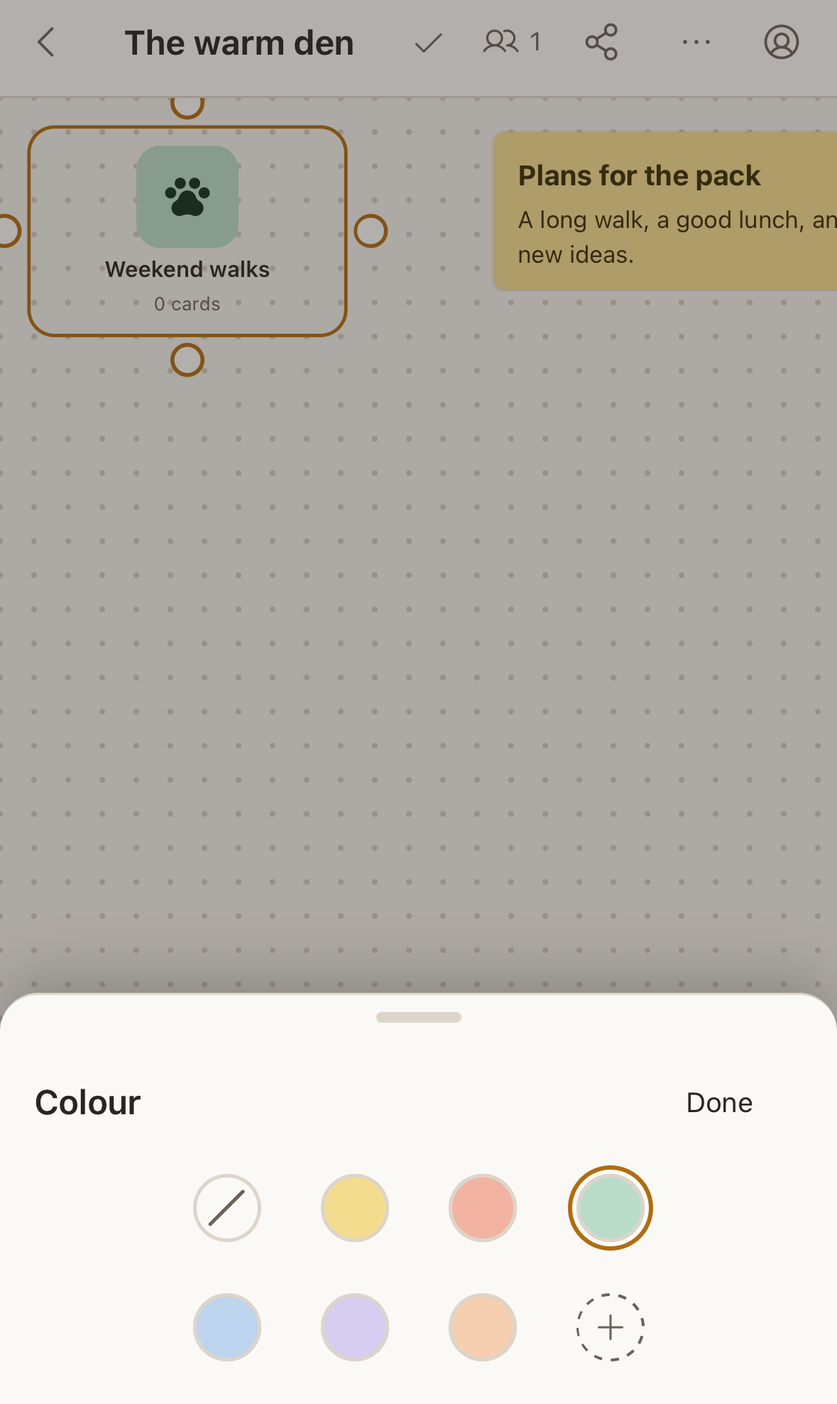
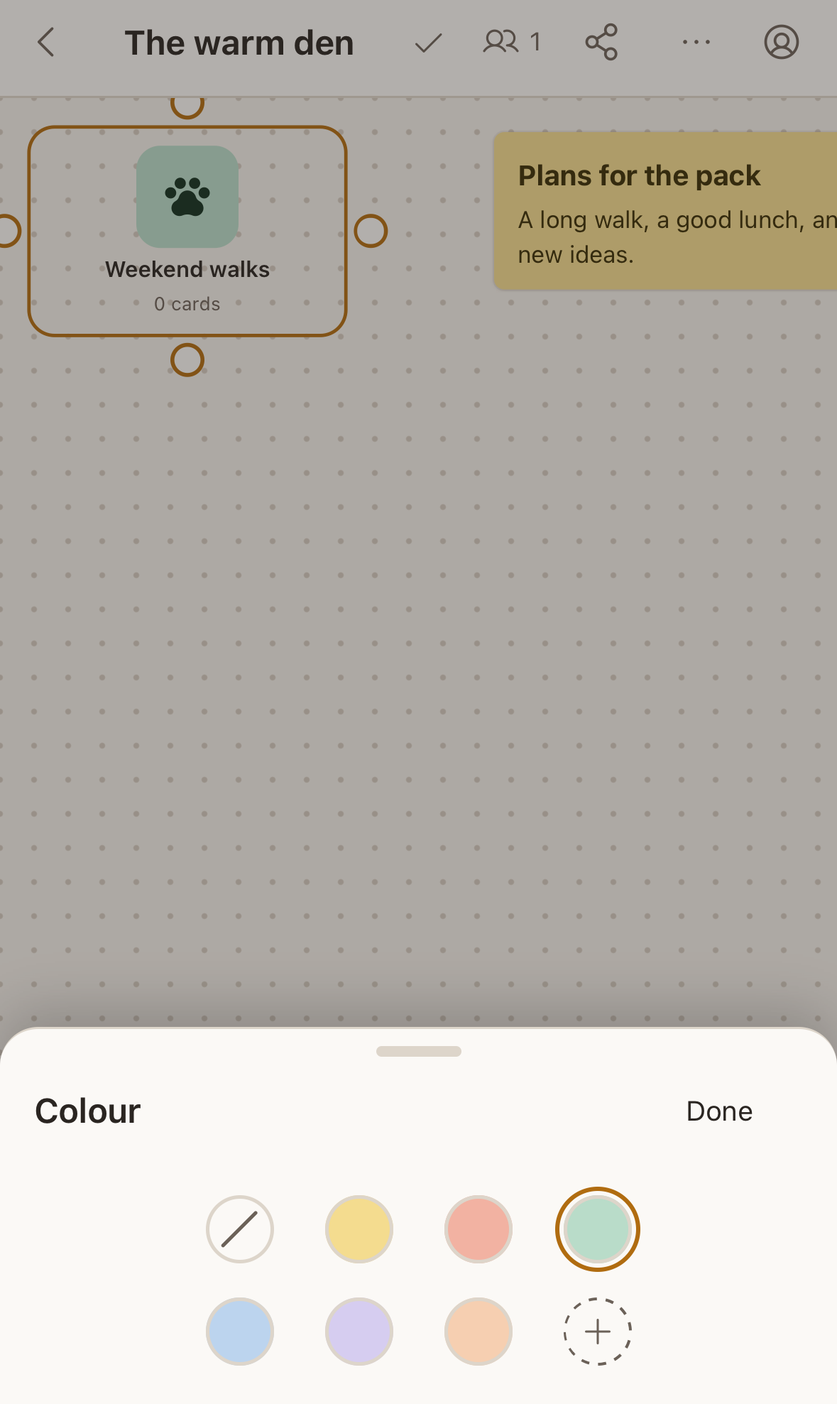
Unify phone controls and rebalance palette spacing

diff --git a/apps/web/src/ui/mobile.css b/apps/web/src/ui/mobile.css
@@ -380,37 +380,20 @@ html[data-input='touch'] :is(input:not([type='checkbox'], [type='radio'], [type=
   from { transform: translateY(40%); opacity: 0; }
 }
 
-/* The Add sheet: big friendly tiles. */
-.add-grid {
-  display: grid;
-  grid-template-columns: repeat(auto-fill, minmax(88px, 1fr));
-  gap: 8px;
-}
-.add-tile {
-  display: flex;
-  flex-direction: column;
-  align-items: center;
-  gap: 6px;
-  min-height: 84px;
-  padding: 10px 4px;
-  border: 1px solid var(--dn-border);
-  border-radius: 14px;
-  background: var(--dn-card);
-  color: var(--dn-text);
-  font: inherit;
-  font-size: 13px;
-  transition: transform 120ms ease-out;
-}
-.add-tile:active { transform: scale(0.94); background: var(--dn-card-hover); }
-.add-tile-icon {
-  display: grid;
-  place-items: center;
-  width: 40px;
-  height: 40px;
-  border-radius: 12px;
-  background: var(--dn-card-hover);
-  color: var(--dn-text-muted);
-}
+/* One button grammar and column grid for every creation action. */
+.add-grid { display: grid; grid-template-columns: repeat(3, minmax(0, 1fr)); gap: 4px 8px; }
+.add-tile { min-width: 0; min-height: 44px; justify-content: flex-start; gap: 6px; padding: 4px; border-radius: 8px; line-height: 20px; text-align: left; transition: transform 120ms ease-out; }
+.add-tile:active { transform: scale(0.97); }
+.add-tile-icon { display: grid; place-items: center; flex: 0 0 24px; width: 24px; height: 24px; color: var(--dn-text-muted); }
+.add-label { min-width: 0; overflow-wrap: anywhere; }
+.add-primary .add-tile { font-weight: 600; }
+.add-primary .add-tile-icon { color: inherit; }
+.add-sheet .add-primary-note,
+html[data-input='mouse'] .add-sheet .add-primary-note:hover,
+html[data-input='touch'] .add-sheet .add-primary-note:active:not(:disabled) { background: var(--dn-accent); color: var(--dn-accent-text); }
+.add-secondary { margin-top: 4px; }
+.add-sheet .nav-menu-head { min-height: 44px; padding: 0; margin-bottom: 12px; }
+.add-sheet .nav-menu-head strong { font-size: 16px; }
 
 /* Inbox list scrolls by touch; items are placed with their buttons. */
 html[data-input='touch'] .toybox-item { touch-action: pan-y; cursor: default; }
@@ -489,6 +472,7 @@ html[data-touch-editing] .canvas-controls { visibility: hidden; }
   .selection-bar.docked .bar-actions .bar-btn { flex: 0 0 auto; min-width: 64px; }
 }
 @media (max-width: 599px), (pointer: coarse) and (max-height: 500px) {
+  .share-head { top: -28px; margin-top: -28px; padding-top: 28px; }
   /* Keep the permission label attached to its full-width touch control. */
   .share-permission-field { flex-direction: column; align-items: stretch; gap: 4px; }
   .share-permission-field select { width: 100%; height: 44px; }
@@ -507,8 +491,6 @@ html[data-touch-editing] .mobile-dock { visibility: hidden; }
 @media (max-width: 599px), (pointer: coarse) and (max-height: 500px) {
   .trash { box-shadow: 0 -2px 0 var(--dn-border), 0 -14px 40px rgb(0 0 0 / 0.32); }
   /* V2-15: a tidy three-column Add grid; a lone last tile takes the whole row. */
-  .add-grid { grid-template-columns: repeat(3, minmax(0, 1fr)); }
-  .add-grid > .add-tile:last-child:nth-child(3n + 1) { grid-column: 1 / -1; flex-direction: row; justify-content: center; gap: 10px; min-height: 56px; }
   /* V2-14: colours centred in their row; Done lines up with the actions. */
   .selection-bar.docked .swatches { margin-inline: auto; }
   .selection-bar.docked .bar-done { align-self: flex-start; margin-top: 5px; }
@@ -697,21 +679,6 @@ html[data-input='touch'] .share-panel .bar-btn { padding-inline: 12px; border-ra
   .popover.labels-panel > .label-dots { grid-template-columns: repeat(7, minmax(0, 1fr)); justify-items: center; padding: 0 0 4px; }
 }
 
-/* Creation: familiar cards first, then a compact list of occasional tools. */
-.add-grid.add-primary { grid-template-columns: repeat(3, minmax(0, 1fr)); }
-.add-primary .add-tile { min-height: 64px; padding: 4px; border: 0; background: transparent; gap: 4px; font-weight: 600; }
-.add-primary .add-tile-icon { width: 32px; height: 32px; border-radius: 10px; background: transparent; }
-.add-primary .add-tile-icon svg { width: 20px; height: 20px; }
-.add-primary-note .add-tile-icon { background: var(--dn-accent); color: var(--dn-accent-text); }
-.add-group-label { margin: 16px 0 4px; color: var(--dn-text-muted); font-size: 12px; font-weight: 600; }
-.add-grid.add-secondary { grid-template-columns: repeat(2, minmax(0, 1fr)); gap: 4px 8px; }
-.add-secondary .add-tile { flex-direction: row; justify-content: flex-start; gap: 8px; min-height: 44px; padding: 4px 8px; border: 0; border-radius: 8px; background: transparent; }
-.add-secondary .add-tile-icon { width: 28px; height: 28px; background: transparent; }
-.add-secondary .add-tile-icon svg { width: 20px; height: 20px; }
-.add-grid.add-secondary > .add-tile:last-child { grid-column: auto; min-height: 44px; }
-.add-sheet .nav-menu-head { min-height: 44px; padding: 0; margin-bottom: 4px; }
-.add-sheet .nav-menu-head strong { font-size: 16px; }
-
 /* Phone selection keeps one row of actions. Palettes live in focused sheets. */
 .selection-phone-head { display: flex; justify-content: space-between; align-items: center; gap: 8px; color: var(--dn-text-muted); font-size: 12px; }
 .selection-phone-head .bar-btn { min-width: 64px; min-height: 44px; gap: 6px; }
@@ -719,12 +686,13 @@ html[data-input='touch'] .share-panel .bar-btn { padding-inline: 12px; border-ra
 .selection-phone-actions > .bar-btn { flex: 1 1 0; min-width: 44px; min-height: 56px; padding: 6px 2px; display: flex; flex-direction: column; justify-content: center; gap: 4px; font-size: 12px; border-radius: 10px; }
 .selection-phone-actions > .selection-primary { background: var(--dn-accent); color: var(--dn-accent-text); font-weight: 600; }
 html[data-input='touch'] .selection-phone-actions > .selection-primary:active:not(:disabled) { background: var(--dn-accent); color: var(--dn-accent-text); }
-.selection-sheet-head { display: flex; align-items: center; justify-content: space-between; min-height: 44px; margin-bottom: 4px; gap: 12px; }
+.selection-sheet-head { display: flex; align-items: center; justify-content: space-between; min-height: 44px; margin-bottom: 12px; gap: 12px; }
 .selection-sheet-head strong { font-size: 16px; font-weight: 600; }
 .selection-sheet-head .bar-btn { min-width: 64px; min-height: 44px; }
-.selection-style-sheet .swatches, .selection-style-sheet .icon-picker { display: grid; width: min(228px, 100%); margin-inline: auto; grid-template-columns: repeat(4, minmax(44px, 1fr)); gap: 8px 12px; justify-items: center; padding: 0; }
-.selection-style-sheet .swatch { width: 48px; height: 48px; --dot: 32px; }
-.selection-style-sheet .icon-choice { width: 48px; height: 48px; }
+.selection-style-sheet .swatches, .selection-style-sheet .icon-picker { display: grid; width: min(212px, 100%); margin-inline: auto; grid-template-columns: repeat(4, minmax(44px, 1fr)); gap: 4px 12px; justify-items: center; padding: 0; }
+.selection-style-sheet .swatch { width: 44px; height: 44px; --dot: 32px; }
+.selection-style-sheet .icon-choice { width: 44px; height: 44px; }
+.selection-style-sheet .icon-choice.on { outline: 2px solid var(--dn-selection); outline-offset: -2px; }
 .selection-style-sheet .icon-choice > svg { width: 24px; height: 24px; }
 .selection-sheet-align { display: flex; justify-content: space-between; gap: 4px; padding: 4px 0; }
 .selection-sheet-align .bar-icon { min-width: 44px; min-height: 44px; }
@@ -765,4 +733,11 @@ html[data-input='touch'] .selection-phone-actions > .selection-primary:active:no
     margin-top: -28px;
     padding-top: 28px;
   }
+}
+
+/* Compact sheets keep the 28px grip target centred, away from header controls.
+   Its last 12px share the noninteractive space above the heading's text. */
+@media (max-width: 599px), (pointer: coarse) and (max-height: 500px) {
+  :is(.menu.add-sheet, .menu.selection-style-sheet)[data-phone-sheet] { padding-top: 16px !important; }
+  :is(.add-sheet, .selection-style-sheet) > .sheet-grip { width: 96px; margin-inline: auto; top: -16px; margin-top: -16px; margin-bottom: -12px; }
 }

diff --git a/apps/web/e2e/mobile-distill.spec.ts b/apps/web/e2e/mobile-distill.spec.ts
@@ -2,24 +2,29 @@ import { expect, test } from '@playwright/test'
 import { cardByText, freshBoard, postSync, waitForSync } from './helpers.ts'
 import { Fingers, note, seedCards, selectionBarFits, tapOn } from './touch.ts'
 
-test('Add has three leading cards, one gold choice and quiet secondary tools', async ({ page }) => {
+test('Add uses one aligned compact button grid with three leading cards', async ({ page }) => {
   await freshBoard(page)
   await page.getByTestId('dock-add').tap()
   const sheet = page.getByTestId('add-sheet')
   await sheet.evaluate(el => Promise.all(el.getAnimations().map(a => a.finished.catch(() => undefined))))
   await expect(sheet.locator('.add-primary button')).toHaveText(['Note', 'To-do', 'Board'])
   await expect(sheet.locator('.add-primary-note')).toHaveCount(1)
-  const primary = await sheet.getByTestId('add-note').boundingBox()
-  const secondary = await sheet.getByTestId('add-link').boundingBox()
-  expect(primary!.height).toBeGreaterThan(secondary!.height)
-  expect(primary!.height).toBeLessThanOrEqual(68)
   await expect(sheet.getByRole('menuitem')).toHaveCount(12)
-  for (const button of await sheet.getByRole('menuitem').all()) {
-    const box = (await button.boundingBox())!
-    expect(box.height).toBeGreaterThanOrEqual(44)
-    expect(box.y + box.height).toBeLessThanOrEqual(page.viewportSize()!.height)
+  for (const width of [page.viewportSize()!.width, 320]) {
+    await page.setViewportSize({ width, height: page.viewportSize()!.height })
+    expect((await sheet.boundingBox())!.height).toBeLessThanOrEqual(290)
+    const boxes = []
+    for (const button of await sheet.getByRole('menuitem').all()) {
+      const box = (await button.boundingBox())!
+      boxes.push(box)
+      expect(box.height).toBeGreaterThanOrEqual(44)
+      expect(box.y + box.height).toBeLessThanOrEqual(page.viewportSize()!.height)
+      expect(await button.evaluate(el => el.scrollWidth <= el.clientWidth)).toBe(true)
+    }
+    for (let i = 3; i < boxes.length; i++) expect(boxes[i].x).toBeCloseTo(boxes[i % 3].x, 0)
+    expect(boxes[0].height).toBeCloseTo(boxes[3].height, 0)
+    expect(await sheet.getByTestId('add-note').evaluate(el => getComputedStyle(el).borderTopWidth)).toBe('0px')
   }
-  expect(await sheet.getByTestId('add-note').evaluate(el => getComputedStyle(el).borderTopWidth)).toBe('0px')
   await sheet.getByTestId('add-link').tap()
   await expect(page.getByTestId('link-input')).toBeFocused()
 })
@@ -34,8 +39,9 @@ test('note actions use a compact dock and Colour restores focus on dismissal', a
   await expect(bar.locator('.swatch')).toHaveCount(0)
   await page.getByTestId('selection-colour').tap()
   const palette = page.getByTestId('selection-style-sheet')
-  expect((await palette.boundingBox())!.height).toBeLessThanOrEqual(210)
-  expect((await palette.locator('.swatches').boundingBox())!.width).toBeLessThanOrEqual(240)
+  expect((await palette.boundingBox())!.height).toBeLessThanOrEqual(185)
+  expect((await palette.locator('.swatches').boundingBox())!.width).toBeLessThanOrEqual(220)
+  expect(await palette.evaluate(el => el.querySelector('.swatches')!.getBoundingClientRect().top - el.querySelector('.selection-sheet-head')!.getBoundingClientRect().bottom)).toBeCloseTo(12, 0)
   for (const swatch of await palette.locator('.swatch').all()) expect((await swatch.boundingBox())!.height).toBeGreaterThanOrEqual(44)
   await page.getByTestId('swatch-sky').tap()
   await expect(page.getByTestId('swatch-sky')).toHaveAttribute('aria-pressed', 'true')
@@ -65,7 +71,11 @@ test('a board leads with Open and uses its actual colour; Rename and icons live 
   await page.getByTestId('selection-icon').tap()
   await expect(page.getByTestId('selection-more-menu')).toHaveCount(0)
   const icons = page.getByTestId('selection-style-sheet')
-  expect((await icons.boundingBox())!.height).toBeLessThanOrEqual(210)
+  expect((await icons.boundingBox())!.height).toBeLessThanOrEqual(185)
+  const selected = icons.getByTestId('icon-paw')
+  expect(await icons.evaluate(el => el.querySelector('.icon-choice')!.getBoundingClientRect().top - el.querySelector('.selection-sheet-head')!.getBoundingClientRect().bottom)).toBeCloseTo(12, 0)
+  await expect(selected).toHaveAttribute('aria-pressed', 'true')
+  expect(await selected.evaluate(el => getComputedStyle(el).outlineWidth)).toBe('2px')
   await expect(icons.locator('.icon-choice')).toHaveCount(8)
   for (const choice of await icons.locator('.icon-choice').all()) expect((await choice.boundingBox())!.height).toBeGreaterThanOrEqual(44)
   await page.getByTestId('icon-bone').tap()

diff --git a/apps/web/src/ui/MobileDock.tsx b/apps/web/src/ui/MobileDock.tsx
@@ -83,28 +83,27 @@ function AddButton() {
           <div class="add-grid add-primary" role="group" aria-label="Create">
             <For each={PRIMARY_TOOLS}>
               {(t) => (
-                <button class="add-tile" classList={{ "add-primary-note": t.id === "note" }} role="menuitem" data-testid={`add-${t.id}`} onClick={() => add(t.id)}>
-                  <span class="add-tile-icon"><Icon size={24} name={t.icon} /></span>
-                  {t.label}
+                <button class="bar-btn add-tile" classList={{ "add-primary-note": t.id === "note" }} role="menuitem" data-testid={`add-${t.id}`} onClick={() => add(t.id)}>
+                  <span class="add-tile-icon"><Icon size={20} name={t.icon} /></span>
+                  <span class="add-label">{t.label}</span>
                 </button>
               )}
             </For>
           </div>
-          <div class="add-group-label">More</div>
           <div class="add-grid add-secondary" role="group" aria-label="More things to add">
-            <For each={MORE_TOOLS}>{(t) => <button class="add-tile" role="menuitem" data-testid={`add-${t.id}`} onClick={() => add(t.id)}><span class="add-tile-icon"><Icon size={20} name={t.icon} /></span>{t.label}</button>}</For>
-            <button class="add-tile" role="menuitem" data-testid="add-stickers" onClick={() => { setOpen(false); openStickers() }}><span class="add-tile-icon"><Icon size={24} name="sticker" /></span>Stickers</button>
-            <button class="add-tile" role="menuitem" data-testid="add-photo" onClick={() => pick(photo)}>
-              <span class="add-tile-icon"><Icon size={24} name="image" /></span>
-              Photo
+            <For each={MORE_TOOLS}>{(t) => <button class="bar-btn add-tile" role="menuitem" data-testid={`add-${t.id}`} onClick={() => add(t.id)}><span class="add-tile-icon"><Icon size={20} name={t.icon} /></span><span class="add-label">{t.label}</span></button>}</For>
+            <button class="bar-btn add-tile" role="menuitem" data-testid="add-stickers" onClick={() => { setOpen(false); openStickers() }}><span class="add-tile-icon"><Icon size={20} name="sticker" /></span><span class="add-label">Stickers</span></button>
+            <button class="bar-btn add-tile" role="menuitem" data-testid="add-photo" onClick={() => pick(photo)}>
+              <span class="add-tile-icon"><Icon size={20} name="image" /></span>
+              <span class="add-label">Photo</span>
             </button>
-            <button class="add-tile" role="menuitem" data-testid="add-camera" onClick={() => pick(camInput)}>
-              <span class="add-tile-icon"><Icon size={24} name="camera" /></span>
-              Camera
+            <button class="bar-btn add-tile" role="menuitem" data-testid="add-camera" onClick={() => pick(camInput)}>
+              <span class="add-tile-icon"><Icon size={20} name="camera" /></span>
+              <span class="add-label">Camera</span>
             </button>
-            <button class="add-tile" role="menuitem" data-testid="add-file" onClick={() => pick(files)}>
-              <span class="add-tile-icon"><Icon size={24} name="upload" /></span>
-              File
+            <button class="bar-btn add-tile" role="menuitem" data-testid="add-file" onClick={() => pick(files)}>
+              <span class="add-tile-icon"><Icon size={20} name="upload" /></span>
+              <span class="add-label">File</span>
             </button>
           </div>
         </div>

diff --git a/apps/web/src/ui/sharing.css b/apps/web/src/ui/sharing.css
@@ -13,12 +13,12 @@
   justify-content: space-between;
   gap: 12px;
   position: sticky;
-  top: 0;
+  top: -16px;
   min-height: 44px;
-  margin-bottom: 16px;
+  margin: 0 -16px 16px;
   z-index: 1;
   background: var(--dn-panel);
-  padding: 0;
+  padding: 0 16px;
 }
 .share-head strong { min-width: 0; font-size: 16px; overflow-wrap: anywhere; }
 .share-head .icon-btn { flex: 0 0 auto; }

diff --git a/docs/qa/fewer-choices/README.md b/docs/qa/fewer-choices/README.md
@@ -1,28 +1,24 @@
 # Fewer equal-weight choices
 
-Item 6 of the Warm Den critique backlog. Reviewed with the Impeccable distill guidance and Emil design-engineering principles against `apps/web/DESIGN.md`.
+Item 6 of the Warm Den critique backlog. Reviewed with Impeccable layout/distill/polish guidance and Emil design-engineering principles against `apps/web/DESIGN.md`.
 
 | Before | After | Why |
 | --- | --- | --- |
-| Equal-weight creation tools and twelve gold phone tiles | Note, To-do and Board lead; Note alone has the accent; occasional tools use a quiet second tier | Common tasks have a clear starting point while every tool stays available |
-| A board selection exposes colours, Open, Rename, eight icons and actions at once | Five contextual actions plus a separate Done; Colour and board icons open focused sheets | Keeps the board visible and gives every target at least 44px |
-| Independent permission controls for username and link invitations | One Invitation permission control for either method | A single, explicit choice applies to the invitation being created |
-| Outlined primary Add cards around a second icon tile | Borderless 64px leading tools and 44px secondary rows, all visible | Keeps the hierarchy while recovering board space without another tap |
-| Palettes spread eight small choices across a full-width sheet | Centred 228px four-by-two grid with 48px targets | Groups the visual choices without shrinking their dots or icons |
-| Share gives empty lists, settings, headings and copy the same flat gap | 16px section gaps, 8px within sections, populated access lists only | Spacing communicates relationships; empty lists reserve no space |
-| Share repeats generic privacy and checkbox explanations | Shorter task copy, explicit new-invitation scope, conditional access consequences | Removes repetition while retaining sign-in, inheritance and expiry information |
-| Create link stays primary while a username is being entered | Invite becomes primary when a username is present | Keeps one primary action aligned with the current task |
+| Equal-weight desktop tools and twelve gold phone tiles | Note, To-do and Board lead; Note alone has the accent | Common tasks have a clear starting point |
+| Phone Add switches from centred three-column tiles to left-aligned two-column rows | One three-column catalogue of identical 44px inline icon-and-label buttons; first row weight 600, remaining tools quiet | One action type has one button layout and column grid; all twelve choices remain visible |
+| A board selection exposes colours, Open, Rename, eight icons and actions at once | Five contextual actions plus Done; palettes and secondary actions in focused sheets | Keeps the board visible and preserves 44px targets |
+| Small palettes spread across a tall sheet; selected tile nearly meets its heading | Centred 212px four-by-two grid, 44px targets, 4px row gaps and 12px header-to-tile gap; selected icons have an outline | Removes excess space while measuring separation from the full selected tile |
+| Separate invitation permissions, flat section spacing and empty lists | One new-invitation permission; 16px section / 8px internal gaps; populated access lists only | Makes scope and grouping clear |
+| Repeated privacy and checkbox explanations; Create link stays gold during a username invitation | Shorter task copy; inherited access and expiry consequences retained; Invite becomes primary while typing a username | Keeps one primary action aligned with the current task |
 
-Design pass: checked both themes on desktop and phone for hierarchy, spacing, alignment, accent use and target size. Corrected Safari's native-select height, hid the sticker launcher while selection actions occupy its space, and added Done to the phone More sheet. No card typography, padding, measurements or canvas transforms changed.
+Phone Add measures about **273px**, down from 426px in the first refinement (473px before review). Colour and Board icon measure **177px**, down from 193px (237px before review). The private edit-invitation sheet measures about **486px**, previously about 565px. All ordinary touch targets remain at least 44px. Add and palette grips retain their 28px height in a centred 96px target, sharing only the noninteractive space above the heading text. The selected icon uses an outline; mouse hover uses only a neutral fill.
 
-Screenshots are captured with temporary Playwright specs (removed before commit). `desktop-*-tools` shows the creation rail; `phone-*-selection` shows the board selection dock; `phone-*-colour` confirms the actual green board colour is selected. The other images show Add, More, board icons and the shared invitation permission.
+Design pass: inspected dark/light iPhone Add, Colour, Board icon and Share plus desktop Share. The final composition uses the app's existing bar-button grammar and aligned columns. Removed the old large-tile and last-child grid exceptions rather than layering more partial overrides. Geometry checks sample the heading and tile in one renderer frame so entrance motion cannot distort the measured gap. Both 320px and default phone widths keep all Add labels readable.
 
-Integration with main `6152b6bf` (#69 and #70): resolved overlaps in Add, More and mobile styles while retaining immediate Add reopening, explicit sheet grips, cancellation and focus return. Added the shared grip to the new Colour and Board icon sheets, which were not covered by the upstream popover class list. The compact action dock and single invitation permission remain intact.
+Sharing uses 16px gutters and an explicit native-select height (36px desktop / 44px touch). Existing members and links are separate from new invitations. The inherited-access explanation waits for loaded access data. Scrolled headers paint an opaque strip across the panel, and the phone close control stays below its grip; the existing visual-panel and phone gesture regressions verify both conditions.
 
-Validation after integration: typecheck and 312 unit tests pass. The focused Chromium, WebKit, iPhone and Pixel matrix passed 188 tests with 2 intentional skips and no retries. It includes six new phone regressions for grip cancellation, dismissal and focus return on Colour, Board icon and More, plus the recent Fetch, camera, reduced-motion and rapid Add checks. Canvas pan/zoom remain at 16.7–16.8ms p95 with a 13MB JS heap. Performance tests and budgets are unchanged. All twelve phone screenshots were refreshed after integration.
+The branch includes main `6152b6bf` (#69/#70): immediate Add reopening, explicit grips, native body scrolling, cancellation and focus return remain intact. No card typography, padding, measurements, API contracts, canvas transforms or performance budgets changed. The prior canvas check remains 16.7–16.8ms p95 with a 13MB JS heap.
 
-Follow-up design review: independent Impeccable and Emil assessments agreed on removing redundant Add containers, tightening palette spacing and grouping Share. The user chose compact, visible tools and updates to all four panels. Add now measures about 426px instead of 473px; Colour and Board icon measure 193px instead of 237px. Every target remains at least 44px. Phone permission uses a full-width select below its label; both layouts have 16px gutters. Existing members and links are grouped separately from new invitations. The inherited-access explanation waits for loaded access data rather than flashing while the owner is unknown. The private edit-invitation sheet now measures about 486px instead of the previous 565px; inherited/legacy-access explanations remain conditional. Placeholder colour comes from the existing muted-text token.
+Screenshots are captured with temporary Playwright specs, removed before commit. Dark/light Add, Colour, Board icon and Share captures are refreshed; creation/selection/More captures remain valid. PNGs are embedded in the PR using their committed SHA.
 
-Design pass: inspected the changed dark/light Add, Colour, Board icon and desktop/phone Share captures, corrected loading-state captures, the inherited-access flash and the Share grip/header spacing, then confirmed the final renders. Safari uses an explicit select height (36px desktop / 44px touch). Temporary screenshot specs are removed before commit; existing creation/selection/More captures remain valid.
-
-Refinement validation: `pnpm typecheck` and all 312 unit tests pass. The desktop/Safari/iPhone/Pixel matrix finished with 172 passing cases and one intentional skip; one existing Pixel toast case missed its initial card-selection tap. The focused recheck passed all eight dark/light and normal/reduced-motion combinations on iPhone and Pixel. All panel regressions, sharing/access cases and sheet-gesture checks passed. New geometry assertions wait for entrance motion to finish before measuring. No test budget or unrelated fixture was changed.
+Validation: `pnpm typecheck` and all 312 unit tests pass. The final Chromium/WebKit/iPhone/Pixel matrix passed 125 functional cases with one intentional platform skip; both dark/light screenshot capture cases also passed. The matrix includes 320px Add alignment and label bounds, palette target and header gaps, explicit grip cancellation/dismissal, rapid Add reopening, reduced motion, keyboard focus, populated sharing/export/dialog layouts and scrolled Share header/close separation. The previous CI Share header failures are reproduced by the unchanged regression tests and now pass in both engines. The layout detector reports zero findings. Temporary capture specs are removed before commit.

diff --git a/apps/web/DESIGN.md b/apps/web/DESIGN.md
@@ -300,13 +300,13 @@ Shelf background, 1px border, 10px radius, floating shadow, 4px inner padding. R
 Shelf background, 14px radius, at most 460px wide, over a 45% black backdrop. Headings are 16px. On phones, dialogs and panels become bottom sheets over the scrim token.
 
 ### Creation tools
-Note, To-do and Board lead the desktop rail and phone Add sheet. Note is the single accented choice. Occasional tools sit in a quieter More tier; desktop tools keep click and drag creation. Phone primary tools are borderless 64px icon-and-label buttons; only Note has an accented icon tile. Secondary tools stay visible as compact 44px icon-and-label rows. Add and palette sheets use 16px gutters and a 44px header below the grip.
+Note, To-do and Board lead the desktop rail and phone Add sheet. Note is the single accented choice. Occasional tools sit in a quieter More tier; desktop tools keep click and drag creation. Phone Add uses one three-column catalogue of identical 44px inline icon-and-label buttons, with 4px row gaps and 8px column gaps. The first three tools use weight 600; Note alone has the primary button fill. Occasional tools remain visible on the same column grid, without a second heading or button grammar. Add and palette sheets use 16px gutters and a 44px header; their centred 96px-wide grip retains its 28px drag target while sharing the noninteractive space above the heading text.
 
 ### Sharing
 One labelled Invitation permission control applies to new username invitations and links. Existing access and links retain their own permissions. View only is the default; Can edit exposes the account-creation option for links. Settings are labelled for new invitations; existing people and links form separate sections, shown only when populated. Use 16px between sections, 8px within sections and 4px from a heading to its explanation. On phones the permission label sits above a full-width 44px select; desktop keeps a label/control row. Typing a username gives Invite the single primary emphasis. General privacy and redundant checkbox copy stay out of the creation flow; inherited access and invitation-expiry consequences remain explicit.
 
 ### Selection bar
-A floating shelf pill (12px radius, floating shadow) centred above the selection, popping in over 140ms. If it would cover a visible card, it flips below or slides into the nearest clear space. Labels popovers also avoid card content and the bar; crowded boards use the position covering the least content. It holds the swatches, icon picker, labels and actions. It wraps rather than scrolls on narrow windows. On phones, a compact dock shows Open (boards) or Edit, Colour, Labels, Bury and More. Only Open/Edit gets the accent fill; Done closes the selection separately. Colour and board icons open focused sheets with a centred four-by-two grid: 48px targets, 12px column gaps and 8px row gaps, preserving 32px colour dots and 24px icons. More holds Rename, board icons, locks, alignment, duplication, comments, connectors and list options when applicable. The selected colour always reflects the displayed card or board.
+A floating shelf pill (12px radius, floating shadow) centred above the selection, popping in over 140ms. If it would cover a visible card, it flips below or slides into the nearest clear space. Labels popovers also avoid card content and the bar; crowded boards use the position covering the least content. It holds the swatches, icon picker, labels and actions. It wraps rather than scrolls on narrow windows. On phones, a compact dock shows Open (boards) or Edit, Colour, Labels, Bury and More. Only Open/Edit gets the accent fill; Done closes the selection separately. Colour and board icons open focused sheets with a centred four-by-two grid: 44px targets, 12px column gaps and 4px row gaps, preserving 32px colour dots and 24px icons. Leave 12px between the header row and the full target tile. Selected icons use the selection outline as well as a neutral fill; hover uses the fill alone. More holds Rename, board icons, locks, alignment, duplication, comments, connectors and list options when applicable. The selected colour always reflects the displayed card or board.
 
 ### Stickers
 Image stickers with a white die-cut outline and a hard offset shadow, placed directly on the canvas. They are browsed in a rounded 18px tray with a 4-column grid of 12px-radius tiles.
